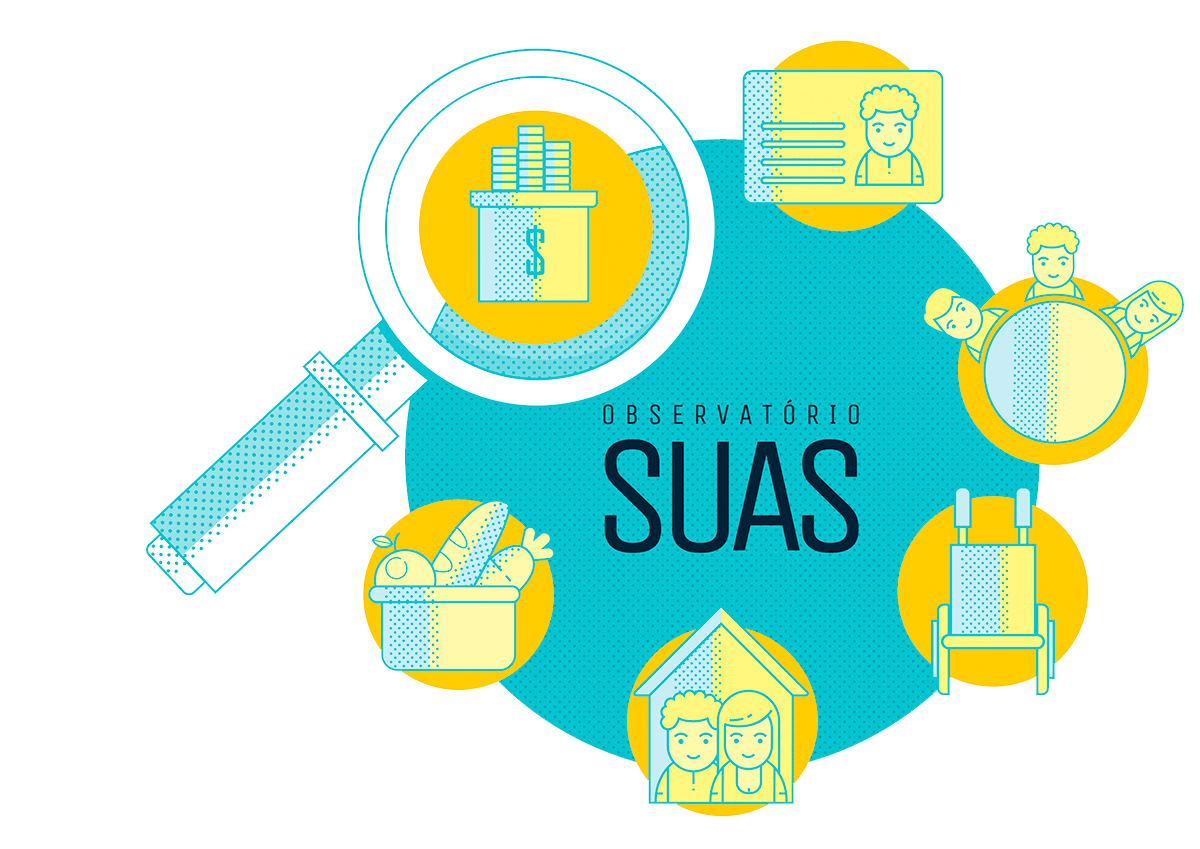
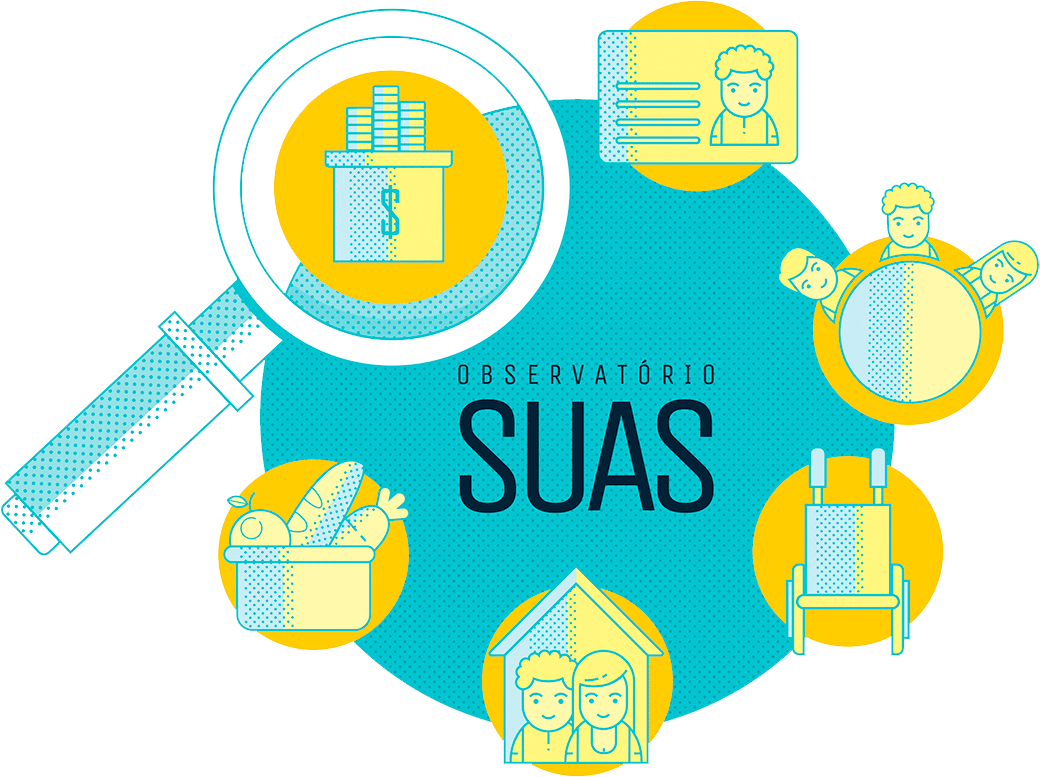
melhorias visuais em home e dados e indicadores, card classificação em metodologia criado.

diff --git a/themes/observatorio-SUAS/components/pages/mp-metodologia/mp-metodologia.component.html b/themes/observatorio-SUAS/components/pages/mp-metodologia/mp-metodologia.component.html
@@ -1,15 +1,14 @@
-<div class="container-fluid">
+<div class="container-fluid" style="min-height: 100vh">
   <div class="row">
-    <div class="col-lg-2 col-sm-7 col-sub col-8">
+    <div class="col-lg-2 col-sm-4 col-sub col-8">
       <div class="row">
         <p></p>
       </div>
       <div class="row">
-        <img src="./assets/img/Logo_SUAS.png" class="img-responsive ajusta_elemento">
-        <div class="col-4"></div>
-        <!--Temporario-->
-        <p> Centro Operacional<br/>das Promotorias de Justiça de Tutela<br/>Coletiva de Defesa da Cidadania</p>
-        <!--/Temporario-->
+        <figure>
+          <img src="./assets/img/Logo_SUAS.png" class="img-responsive ajusta_elemento">
+          <img src="./assets/img/CAO-logo.png" class="img-responsive" style="width: 179px;height: auto;">
+        </figure>
       </div>
 
       <div class="row">
@@ -60,7 +59,7 @@
                     <div class="card-block">
                       <div class="row">
                         <div class="col-3">
-                          <img class="icone" src="./assets/img/icones/Icones_Tela_1_Orçamentos.png" align="left">
+                          <img class="icone" src="./assets/img/icones/secretario_assistencia_social_70px.png" align="left">
                         </div>
                         <div class="col-7">
                           <div class="row">
@@ -108,7 +107,7 @@
                     <div class="card-block">
                       <div class="row">
                         <div class="col-3">
-                          <img class="icone" src="./assets/img/icones/Icones_Tela_1_Orçamentos.png" align="left">
+                          <img class="icone" src="./assets/img/icones/CRAS_Médio_70px.png" align="left">
                         </div>
                         <div class="col-7">
                           <div class="row">
@@ -156,7 +155,7 @@
                     <div class="card-block">
                       <div class="row">
                         <div class="col-3">
-                          <img class="icone" src="./assets/img/icones/Icones_Tela_1_Orçamentos.png" align="left">
+                          <img class="icone" src="./assets/img/icones/bolsa_familia_70px.png" align="left">
                         </div>
                         <div class="col-7">
                           <div class="row">
@@ -187,10 +186,152 @@
             <span class="subtitulo">Entenda quais são os diferentes níveis de maturidade e as notas que definem os seus enquadramentos.</span>
           </div>
 
-          <div class="macro-card">
-            <div class="card-block">
-              <div class="row">
-                <img class="img-responsive" src="./assets/img/classificacoes.png" width="100%" height="100%" style="padding-left: 5%;padding-right: 5%;" >
+          <div class="card-block">
+            <div class="macro-card">
+              <div class="card-block">
+                <div class="row">
+                  <div class="col-lg-6 col-xs-12" style="padding: 0.2em">
+                    <div class="micro-card">
+                      <div class="card-block">
+                        <div class="row">
+                          <div class="col-lg-8">
+                            <figure>
+                              <img class="img-envolvida" src="./assets/img/Ilustracao_SUAS.png" style="width: 5em">
+                            </figure>
+                          </div>
+                          <div class="col-11 dimensao" style="font-size: .9em;text-align: end ;padding-top: .5em">incipiente</div>
+                          <div class="col-6" style="text-align: center;color: #B23158">
+                            <div class="text-rating">de</div>
+                            <div class="font-rating"> 0</div>
+                          </div>
+                          <div class="col-6" style=" color: #B23158">
+                            <div class="text-rating">até</div>
+                            <div class="font-rating"> 2,0</div>
+                          </div>
+                        </div>
+                      </div>
+                    </div>
+                  </div>
+
+                  <div class="col-lg-6 col-xs-12" style="padding: 0.2em">
+                    <div class="micro-card">
+                      <div class="card-block">
+                        <div class="row">
+                          <div class="col-lg-8">
+                            <figure>
+                              <img class="img-envolvida" src="./assets/img/Ilustracao_SUAS.png" style="width: 5em">
+                            </figure>
+                          </div>
+                          <div class="col-11 dimensao" style="font-size: .9em;text-align: end ;padding-top: .5em">pouco efetivo</div>
+                          <div class="col-6" style="text-align: center;color: #B289A5">
+                            <div class="text-rating">de</div>
+                            <div class="font-rating"> 2,0</div>
+                          </div>
+                          <div class="col-6" style="text-align: center;color: #B289A5">
+                            <div class="text-rating">até</div>
+                            <div class="font-rating"> 4,0</div>
+                          </div>
+                        </div>
+                      </div>
+                    </div>
+                  </div>
+                </div>
+
+                <div class="row">
+                  <div class="col-lg-6 col-xs-12" style="padding: 0.2em">
+                    <div class="micro-card">
+                      <div class="card-block">
+                        <div class="row">
+                          <div class="col-lg-8">
+                            <figure>
+                              <img class="img-envolvida" src="./assets/img/Ilustracao_SUAS.png" style="width: 5em">
+                            </figure>
+                          </div>
+                          <div class="col-11 dimensao" style="font-size: .9em;text-align: end ;padding-top: .5em">intermediário</div>
+                          <div class="col-6" style="text-align: center;color: #B29829">
+                            <div class="text-rating">de</div>
+                            <div class="font-rating"> 4,0</div>
+                          </div>
+                          <div class="col-6" style="text-align: center;color: #B29829">
+                            <div class="text-rating">até</div>
+                            <div class="font-rating"> 6,0</div>
+                          </div>
+                        </div>
+                      </div>
+                    </div>
+                  </div>
+
+                  <div class="col-lg-6 col-xs-12" style="padding: 0.2em">
+                    <div class="micro-card">
+                      <div class="card-block">
+                        <div class="row">
+                          <div class="col-lg-8">
+                            <figure>
+                              <img class="img-envolvida" src="./assets/img/Ilustracao_SUAS.png" style="width: 5em">
+                            </figure>
+                          </div>
+                          <div class="col-11 dimensao" style="font-size: .9em;text-align: end ;padding-top: .5em">abrangente</div>
+                          <div class="col-6" style="text-align: center;color: #118BB2">
+                            <div class="text-rating">de</div>
+                            <div class="font-rating"> 6,0</div>
+                          </div>
+                          <div class="col-6" style="text-align: center;color: #118BB2">
+                            <div class="text-rating">até</div>
+                            <div class="font-rating"> 7,5</div>
+                          </div>
+                        </div>
+                      </div>
+                    </div>
+                  </div>
+                </div>
+
+                <div class="row">
+                  <div class="col-lg-6 col-xs-12" style="padding: 0.2em">
+                    <div class="micro-card">
+                      <div class="card-block">
+                        <div class="row">
+                          <div class="col-lg-8">
+                            <figure>
+                              <img class="img-envolvida" src="./assets/img/Ilustracao_SUAS.png" style="width: 5em">
+                            </figure>
+                          </div>
+                          <div class="col-11 dimensao" style="font-size: .9em;text-align: end ;padding-top: .5em">muito abrangente</div>
+                          <div class="col-6" style="text-align: center;color: #3138B2">
+                            <div class="text-rating">de</div>
+                            <div class="font-rating"> 7,5</div>
+                          </div>
+                          <div class="col-6" style="text-align: center;color: #3138B2">
+                            <div class="text-rating">até</div>
+                            <div class="font-rating"> 9,0</div>
+                          </div>
+                        </div>
+                      </div>
+                    </div>
+                  </div>
+
+                  <div class="col-lg-6 col-xs-12" style="padding: 0.2em">
+                    <div class="micro-card">
+                      <div class="card-block">
+                        <div class="row">
+                          <div class="col-lg-8">
+                            <figure>
+                              <img class="img-envolvida" src="./assets/img/Ilustracao_SUAS.png" style="width: 5em">
+                            </figure>
+                          </div>
+                          <div class=" col-10 dimensao" style="font-size: .9em;text-align: end ;padding-top: .5em"> efetivo</div>
+                          <div class="col-6" style="text-align: center;color: #0D8B11">
+                            <div class="text-rating">de</div>
+                            <div class="font-rating"> 9,0</div>
+                          </div>
+                          <div class="col-6" style="text-align: center;color: #0D8B11">
+                            <div class="text-rating">até</div>
+                            <div class="font-rating"> 10</div>
+                          </div>
+                        </div>
+                      </div>
+                    </div>
+                  </div>
+                </div>
               </div>
             </div>
           </div>

diff --git a/themes/observatorio-SUAS/components/pages/mp-home/mp-home.component.html b/themes/observatorio-SUAS/components/pages/mp-home/mp-home.component.html
@@ -5,14 +5,13 @@
   </div>
 
   <div class="row">
-    <div class="col-lg-2 col-sm-7 col-sub col-8">
+    <div class="col-lg-2 col-sm-4 col-sub col-8">
       <div class="row">
         <figure>
           <img src="./assets/img/Logo_SUAS.png" class="img-responsive ajusta_elemento">
+          <img src="./assets/img/CAO-logo.png" class="img-responsive" style="width: 179px;height: auto;">
         </figure>
-        <div class="col-4"></div>
-          <img src="./assets/img/CAO-logo.png" class="img-responsive" style="width: 100%;height: 100%;">
-        <!--/Temporario-->
+          <!--/Temporario-->
       </div>
       <div class="row">
         <p><br/></p>
@@ -260,14 +259,14 @@
             <a [routerLink]="['/busca']">ver toda a legislação </a>
           </div>
           <div class="card col ml-2">
-            <div class="card-block text-center">
-              <p class="text-blue"> LEI FEDERAL</p>
+            <div class="card-block " style="line-height: 2em">
+              <p class="text-blue"> Lei Federal</p>
               <span> Lei Nº 8.742 de Dezembro de 1993</span>
-              <p class="text-blue"> LEI FEDERAL</p>
+              <p class="text-blue"> Lei Federal</p>
               <span> Lei Nº 8.742 de Dezembro de 1993</span>
-              <p class="text-blue"> LEI FEDERAL</p>
+              <p class="text-blue"> Lei Federal</p>
               <span> Lei Nº 8.742 de Dezembro de 1993</span>
-              <p class="text-blue"> LEI FEDERAL</p>
+              <p class="text-blue"> Lei Federal</p>
               <span> Lei Nº 8.742 de Dezembro de 1993</span>
             </div>
           </div>
@@ -282,15 +281,15 @@
             <a [routerLink]="['/busca']">ver todos os orçamentos </a>
           </div>
           <div class="card ">
-            <div class="card-block text-center">
-              <p class="text-blue"> LEI FEDERAL</p>
-              <span> Lei Nº 8.742 de Dezembro de 1993</span>
-              <p class="text-blue"> LEI FEDERAL</p>
-              <span> Lei Nº 8.742 de Dezembro de 1993</span>
-              <p class="text-blue"> LEI FEDERAL</p>
-              <span> Lei Nº 8.742 de Dezembro de 1993</span>
-              <p class="text-blue"> LEI FEDERAL</p>
-              <span> Lei Nº 8.742 de Dezembro de 1993</span>
+            <div class="card-block" style="line-height: 2em">
+              <p class="text-blue"> Orçamento 2016</p>
+              <span> União</span>
+              <p class="text-blue"> Orçamento 2017</p>
+              <span> União</span>
+              <p class="text-blue"> Orçamento 2016</p>
+              <span> Estado do Rio de Janeiro</span>
+              <p class="text-blue"> Orçamento 2016</p>
+              <span> Municipal</span>
             </div>
           </div>
         </div>

diff --git a/themes/observatorio-SUAS/components/pages/mp-metodologia/mp-metodologia.component.scss b/themes/observatorio-SUAS/components/pages/mp-metodologia/mp-metodologia.component.scss
@@ -47,11 +47,12 @@
 
 .dimensao {
   font-family: 'Raleway';
-  font-size: 130%;
+  font-size: 100%;
   line-height: .91em;
   font-weight: 500;
   word-wrap: normal;
   color: #264467;
+  text-transform: uppercase;
 }
 
 .pesoHeader {
@@ -63,6 +64,22 @@
   padding-left: 0em!important;
   color: #264467;
 }
+.font-rating{
+  font-family: 'Roboto-Condensed';
+  font-size: 1.7em;
+  line-height: 90%;
+  font-weight: normal;
+  right: 2%;
+  word-wrap: normal;
+}
+
+.text-rating{
+  font-size: .8em;
+  text-transform: uppercase;
+  padding: .5em;
+
+}
+
 
 .pesoValor {
   font-family: 'Roboto-Condensed';

diff --git a/themes/observatorio-SUAS/components/pages/mp-ajuda/mp-ajuda.component.html b/themes/observatorio-SUAS/components/pages/mp-ajuda/mp-ajuda.component.html
@@ -3,11 +3,8 @@
     <div class="col-lg-2">
       <figure>
         <img src="./assets/img/Logo_SUAS.png" class="img-responsive ajusta_elemento">
+        <img src="./assets/img/CAO-logo.png" class="img-responsive" style="width: 90%;height: auto;">
       </figure>
-      <!--Temporario-->
-      <div style="padding-left: 1.4em;font-size: 85%">
-        <p> Centro Operacional<br/>das Promotorias de Justiça de Tutela<br/>Coletiva de Defesa da Cidadania</p>
-      </div>
       <!--/Temporario-->
     </div>
 

diff --git a/themes/observatorio-SUAS/components/pages/mp-home/mp-home.component.scss b/themes/observatorio-SUAS/components/pages/mp-home/mp-home.component.scss
@@ -15,7 +15,10 @@
 .img-responsive{
   width: 4em;
   height: 4em;
-  padding: .4em;
+  padding-right:.4em;
+  padding-left:.4em;
+  padding-top:.4em;
+  padding-bottom:.4em;
 }
 .link {
   position: relative;
@@ -82,11 +85,6 @@
   float: right;
 }
 
-.ajusta_elemento{
-  width: 11em;
-  height: 14em;
-  padding: 1.5rem;
-}
 
 .dimensao {
   font-family: 'Raleway';
@@ -191,6 +189,7 @@ div mp-link{
 div > span{
   padding-bottom: .9rem;
 }
+
 @media (max-width: 575px) {
   .img-envolvida{
     display: none;

diff --git a/themes/observatorio-SUAS/components/pages/mp-ajuda/mp-ajuda.component.scss b/themes/observatorio-SUAS/components/pages/mp-ajuda/mp-ajuda.component.scss
@@ -1,4 +1,11 @@
-
+.img-responsive{
+  width: 4em;
+  height: 4em;
+  padding-right:.4em;
+  padding-left:.4em;
+  padding-top:.4em;
+  padding-bottom:.4em;
+}
 
 .btn-primario{
   width: 60%;

diff --git a/themes/observatorio-SUAS/components/pages/mp-dados-e-indicadores/mp-dados-e-indicadores.component.scss b/themes/observatorio-SUAS/components/pages/mp-dados-e-indicadores/mp-dados-e-indicadores.component.scss
@@ -201,7 +201,7 @@ table > th:first-child div{
   font-family: 'Raleway';
 }
 .pw-3{
-  font-size: .6rem;
+  font-size: .5rem;
   text-align: center;
   text-transform: uppercase;
 
